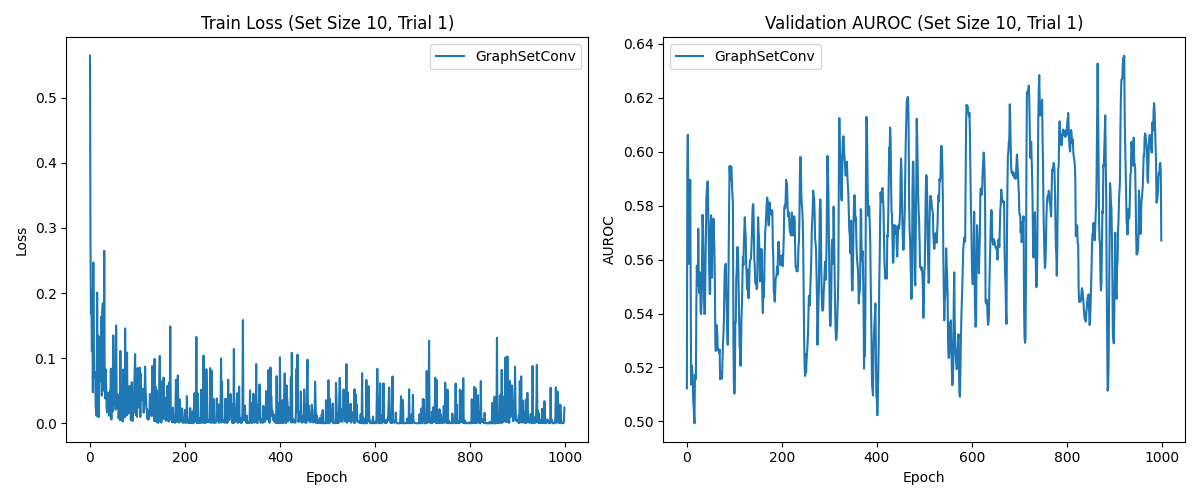
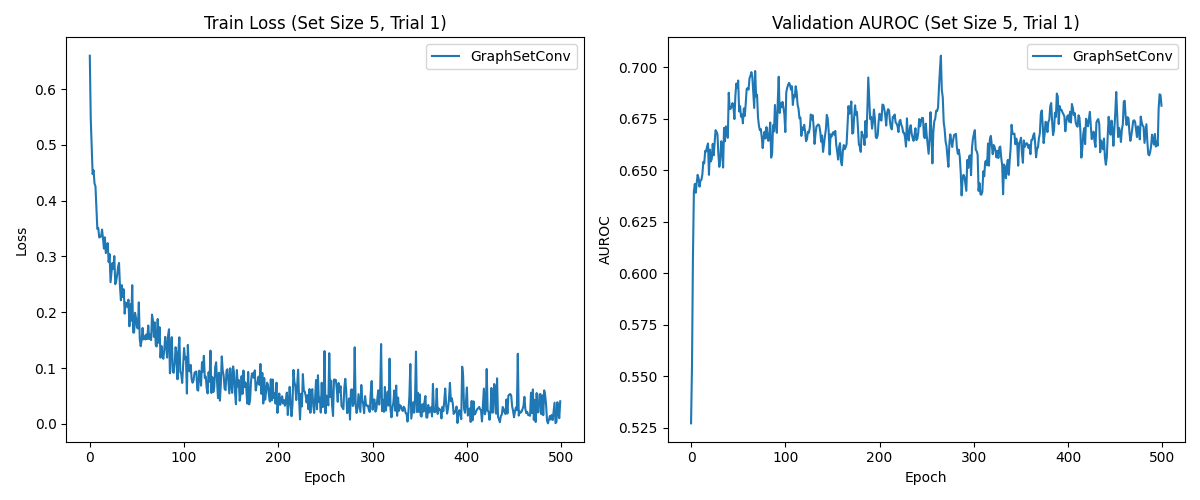
Simplified model...

diff --git a/scripts/train_moleculenet.py b/scripts/train_moleculenet.py
@@ -115,13 +115,14 @@ def main():
 
     # Parameters
     model_names = ["SetTransformer", "DeepSets", "GraphSetConv"]
+    # model_names = ["DeepSets", "GraphSetConv"]
     # model_names = ["GraphSetConv"]
+    learning_rates = {"SetTransformer": 1e-3, "DeepSets": 1e-3, "GraphSetConv": 1e-4}
+    hidden_dims = {"SetTransformer": 32, "DeepSets": 64, "GraphSetConv": 64}
     # set_sizes = [5, 10, 20]
-    set_sizes = [10]
-    num_epochs = 500
-    hidden_dim = 64
+    set_sizes = [10, 5, 2]
+    num_epochs = 1000
     batch_size = 32
-    learning_rate = 1e-4
     num_trials = 5
     use_class_weights = False
 
@@ -138,7 +139,7 @@ def main():
     }
 
     train_dataset, val_dataset, test_dataset, tasks = molecule_net_loader(
-        "bace", "data/moleculenet/bace.csv.xz"
+        "bace", "data/moleculenet/bace.csv.xz", use_scaffold_split=True
     )
 
     in_channels = train_dataset[0].x.shape[1]
@@ -181,6 +182,19 @@ def main():
             collate_fn=collate_sets,
         )
 
+        # train_sets = make_label_homogeneous_sets(train_dataset, set_size, shuffle=False)
+        train_sets = make_label_homogeneous_sets(train_dataset, set_size, shuffle=False)
+        train_set_dataset = SetDataset(train_sets)
+        balanced_sampler = BalancedSetBatchSampler(train_set_dataset, batch_size)
+
+        train_loader = TorchDataLoader(
+            train_set_dataset,
+            # batch_size=batch_size,
+            # shuffle=True,
+            batch_sampler=balanced_sampler,
+            collate_fn=collate_sets,
+        )
+
         for trial in range(num_trials):
             print(f"\n{'#'*60}")
             print(f"# SET SIZE: {set_size} - TRIAL {trial + 1}/{num_trials}")
@@ -200,52 +214,46 @@ def main():
                 )
                 print(f"{'='*50}")
 
-                model = get_model(model_name, in_channels, hidden_dim, num_classes)
-                model = model.to(device)
-                optimizer = torch.optim.Adam(
-                    model.parameters(),
-                    lr=learning_rate,
+                model = get_model(
+                    model_name, in_channels, hidden_dims[model_name], num_classes
                 )
+                model = model.to(device)
+                # optimizer = torch.optim.Adam(
+                #     model.parameters(), lr=learning_rates[model_name], weight_decay=1e-3
+                # )
+                optimizer = torch.optim.AdamW(
+                    model.parameters(),
+                    lr=learning_rates[model_name],
+                    weight_decay=0.01,
+                    betas=(0.9, 0.999),
+                )
+
+                # scheduler = torch.optim.lr_scheduler.CosineAnnealingLR(
+                #     optimizer, T_max=num_epochs, eta_min=1e-5
+                # )
 
                 best_val_auroc = 0
                 best_model_state = None
 
                 for epoch in range(num_epochs):
-                    # train_sets = make_label_homogeneous_sets_rand_card(
-                    #     train_dataset, max_size=10
-                    # )
-                    train_sets = make_label_homogeneous_sets(
-                        train_dataset, set_size, shuffle=True
-                    )
-                    train_set_dataset = SetDataset(train_sets)
-
-                    balanced_sampler = BalancedSetBatchSampler(
-                        train_set_dataset, batch_size=batch_size, num_classes=2
-                    )
-
-                    train_loader = TorchDataLoader(
-                        train_set_dataset,
-                        # batch_size=batch_size,
-                        # shuffle=True,
-                        batch_sampler=balanced_sampler,
-                        collate_fn=collate_sets,
-                    )
 
                     if epoch == 0 and trial == 0:
                         print(f"\nVerifying batch balance for epoch 1:")
                         for i, (data, set_batch, targets) in enumerate(train_loader):
                             class_counts = torch.bincount(targets)
                             print(f"  Batch {i}: {class_counts.tolist()}")
-                            if i >= 2:  # Just show first 3 batches
-                                break
+                            # if i >= 2:  # Just show first 3 batches
+                            #     break
 
                     # Train with class weights
                     train_loss = train_epoch(
                         model, train_loader, optimizer, device, class_weights
                     )
+                    # scheduler.step()
 
                     # Validate
                     val_auroc = evaluate(model, val_loader, device)
+                    test_auroc = evaluate(model, test_loader, device)
 
                     # Save Results
                     trial_results[model_name]["train_loss"].append(train_loss)
@@ -259,7 +267,7 @@ def main():
 
                     if (epoch + 1) % 10 == 0:
                         print(
-                            f"Epoch {epoch+1}/{num_epochs} - Train Loss: {train_loss:.4f}, Val AUROC: {val_auroc:.4f}"
+                            f"Epoch {epoch+1}/{num_epochs} - Train Loss: {train_loss:.4f}, Val AUROC: {val_auroc:.4f}, Test AUROC: {test_auroc:.4f}"
                         )
 
                 print(f"Best Val AUROC for {model_name}: {best_val_auroc:.4f}")

diff --git a/src/graph_set_transformer/models/models.py b/src/graph_set_transformer/models/models.py
@@ -22,6 +22,10 @@ from torch_geometric.nn.models import GCN
 from torch_geometric.utils import scatter
 from torch_geometric.utils import to_dense_batch
 
+import warnings
+
+warnings.filterwarnings("ignore", message=".*torch-scatter.*")
+
 
 # from sklearn.metrics import roc_auc_score
 class GraphSetTransformerGraphClassifier(nn.Module):
@@ -383,10 +387,10 @@ class GraphSetConv(nn.Module):
         activation="relu",
         mhsa_dropout=0.2,
         ffn_dropout=0.2,
-        gcn_dropout=0.2,
+        gcn_dropout=0.1,
         pooling="mean",
-        use_gating=True,
-        ffn_multiplier=8,
+        use_gating=False,
+        ffn_multiplier=1,
         num_heads=4,
     ):
         super().__init__()
@@ -423,11 +427,11 @@ class GraphSetConv(nn.Module):
         )
         self.ln_post_ffn = nn.LayerNorm(filters)
 
-        # if use_gating:
-        #     self.gate = nn.Sequential(nn.Linear(filters * 2, filters), nn.Sigmoid())
-
         if use_gating:
-            self.gate = GatedFusion(dim=filters, init_tau=2.0)
+            self.gate = nn.Sequential(nn.Linear(filters * 2, filters), nn.Sigmoid())
+
+        # if use_gating:
+        #     self.gate = GatedFusion(dim=filters, init_tau=2.0)
 
         self.act = self._build_activation(activation)
 
@@ -460,7 +464,6 @@ class GraphSetConv(nn.Module):
 
         x = self.gcn_layer(x, edge_index)
         x = self.gcn_norms(x)
-        x = self.act(x)
         x = self.gcn_dropout(x)
 
         z = self._pool_graphs(x, batch)
@@ -468,41 +471,44 @@ class GraphSetConv(nn.Module):
         z_dense, mask = to_dense_batch(z, set_batch)
         mask = mask.to(dtype=torch.bool, device=z_dense.device)
 
-        z_norm = self.ln_pre(z_dense)
+        # z_norm = self.ln_pre(z_dense)
 
-        z_attn, attn_weights = self.mha(z_norm, z_norm, z_norm, key_padding_mask=~mask)
-        # z_attn = self.mha_dropout(z_attn)
+        z_attn, attn_weights = self.mha(
+            z_dense, z_dense, z_dense, key_padding_mask=~mask
+        )
         z_dense = self.ln_post_attn(z_dense + z_attn)
 
-        z_ffn = self.ffn(z_dense)
-        z_dense = self.ln_post_ffn(z_dense + z_ffn)
+        # z_ffn = self.ffn(z_dense)
+        # z_dense = self.ln_post_ffn(z_dense + z_ffn)
 
         z_out = z_dense[mask]
 
         set_info = z_out[batch]
 
         if self.use_gating:
-            # gate_input = torch.cat([x, set_info], dim=-1)
-            # gate_values = self.gate(gate_input)
-            # x_out = gate_values * set_info + (1 - gate_values) * x
-            x_out = self.gate(x, set_info)
+            gate_input = torch.cat([x, set_info], dim=-1)
+            gate_values = self.gate(gate_input)
+            x_out = gate_values * set_info + (1 - gate_values) * x
+            # x_out = self.gate(x, set_info)
         else:
             x_out = x + set_info
 
-        return x_out
+        # return x_out
+
+        return self.act(x)
 
 
 class GraphSetTransformerGraphClassifier(nn.Module):
     def __init__(self, in_channels, hidden_dim, num_classes, dropout=0.1):
         super().__init__()
         self.setconv1 = GraphSetConv(
-            filters=hidden_dim, in_channels=in_channels, activation="gelu"
+            filters=hidden_dim, in_channels=in_channels, pooling="max"
         )
         self.setconv2 = GraphSetConv(
-            filters=hidden_dim, in_channels=hidden_dim, activation="gelu"
+            filters=hidden_dim, in_channels=hidden_dim, pooling="max"
         )
         self.setconv3 = GraphSetConv(
-            filters=hidden_dim, in_channels=hidden_dim, activation="gelu"
+            filters=hidden_dim, in_channels=hidden_dim, pooling="max"
         )
         self.dropout = nn.Dropout(dropout)
         self.classifier = nn.Linear(hidden_dim, num_classes)

diff --git a/src/graph_set_transformer/data/set_data_set.py b/src/graph_set_transformer/data/set_data_set.py
@@ -103,39 +103,33 @@ def collate_sets(batch_of_sets, verbose=False):
 #     return sets
 
 
-def make_label_homogeneous_sets(dataset, set_size, shuffle=False):
-    # Group by label
+def make_label_homogeneous_sets(dataset, set_size, shuffle=False, seed=None):
+    if seed is not None:
+        random.seed(seed)
+
     label_groups = defaultdict(list)
     for data in dataset:
         label_groups[int(data.y.item())].append(data)
 
+    print(len(label_groups[0]), len(label_groups[1]))
+
     sets = []
     for label, graphs in label_groups.items():
         n = len(graphs)
-
-        # For each graph, create a set with it and (set_size - 1) random others
         used = set()
         for i in range(n):
-            # if i in used:
-            #     continue
-            # Start with the current graph
+            if i in used:
+                continue
             current_set = [graphs[i]]
-
-            # Add (set_size - 1) random other graphs from the same label
-            # Sample with replacement if we don't have enough graphs
             other_indices = [j for j in range(n) if j != i]
-
             if len(other_indices) >= set_size - 1:
-                # Sample without replacement
                 sampled_indices = random.sample(other_indices, set_size - 1)
             else:
-                # Sample with replacement if we don't have enough graphs
                 sampled_indices = random.choices(other_indices, k=set_size - 1)
-
             used.update(sampled_indices)
-
             current_set.extend([graphs[j] for j in sampled_indices])
             sets.append((current_set, label))
+
     if shuffle:
         random.shuffle(sets)
 

diff --git a/src/graph_set_transformer/utils/molecule_net_loader.py b/src/graph_set_transformer/utils/molecule_net_loader.py
@@ -115,18 +115,33 @@ def molecule_net_loader(
     split_ratio=0.7,
     seed=42,
     task_name=None,
+    use_scaffold_split=True,
     **kwargs,
 ):
     enc = GraphEncoder()
 
     df = pd.read_csv(path)
 
-    # Drop NAs. Needed in Tox21
     if name in ["tox21"]:
         df = df.replace("", np.nan)
         df = df.dropna(subset=[task_name])
 
-    train_ids, valid_ids, test_ids = scaffold_split(df, 0.1, 0.1, seed)
+    df = df.sample(frac=1, random_state=seed).reset_index(drop=True)
+
+    if scaffold_split:
+        train_ids, valid_ids, test_ids = scaffold_split(df, 0.1, 0.1, seed)
+    else:
+        shuffled_ids = df.index.numpy()
+        np.random.seed(seed)
+        np.random.shuffle(shuffled_ids)
+
+        n = len(shuffled_ids)
+        valid_size = int(0.1 * n)
+        test_size = int(0.1 * n)
+
+        train_ids = shuffled_ids[valid_size + test_size :]
+        valid_ids = shuffled_ids[:valid_size]
+        test_ids = shuffled_ids[valid_size : valid_size + test_size]
 
     train = df.loc[train_ids]
     valid = df.loc[valid_ids]
